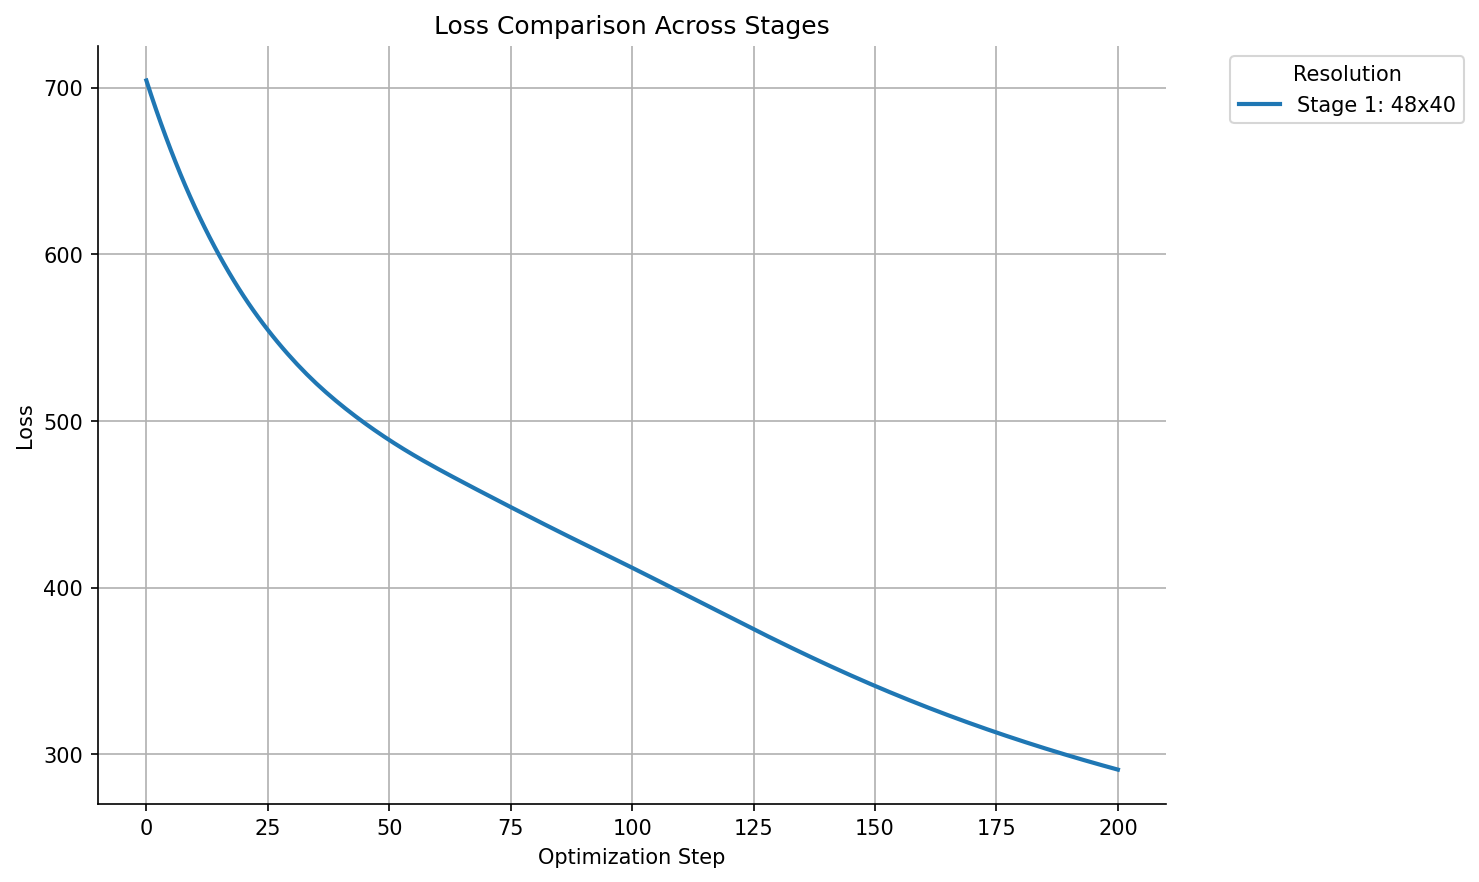
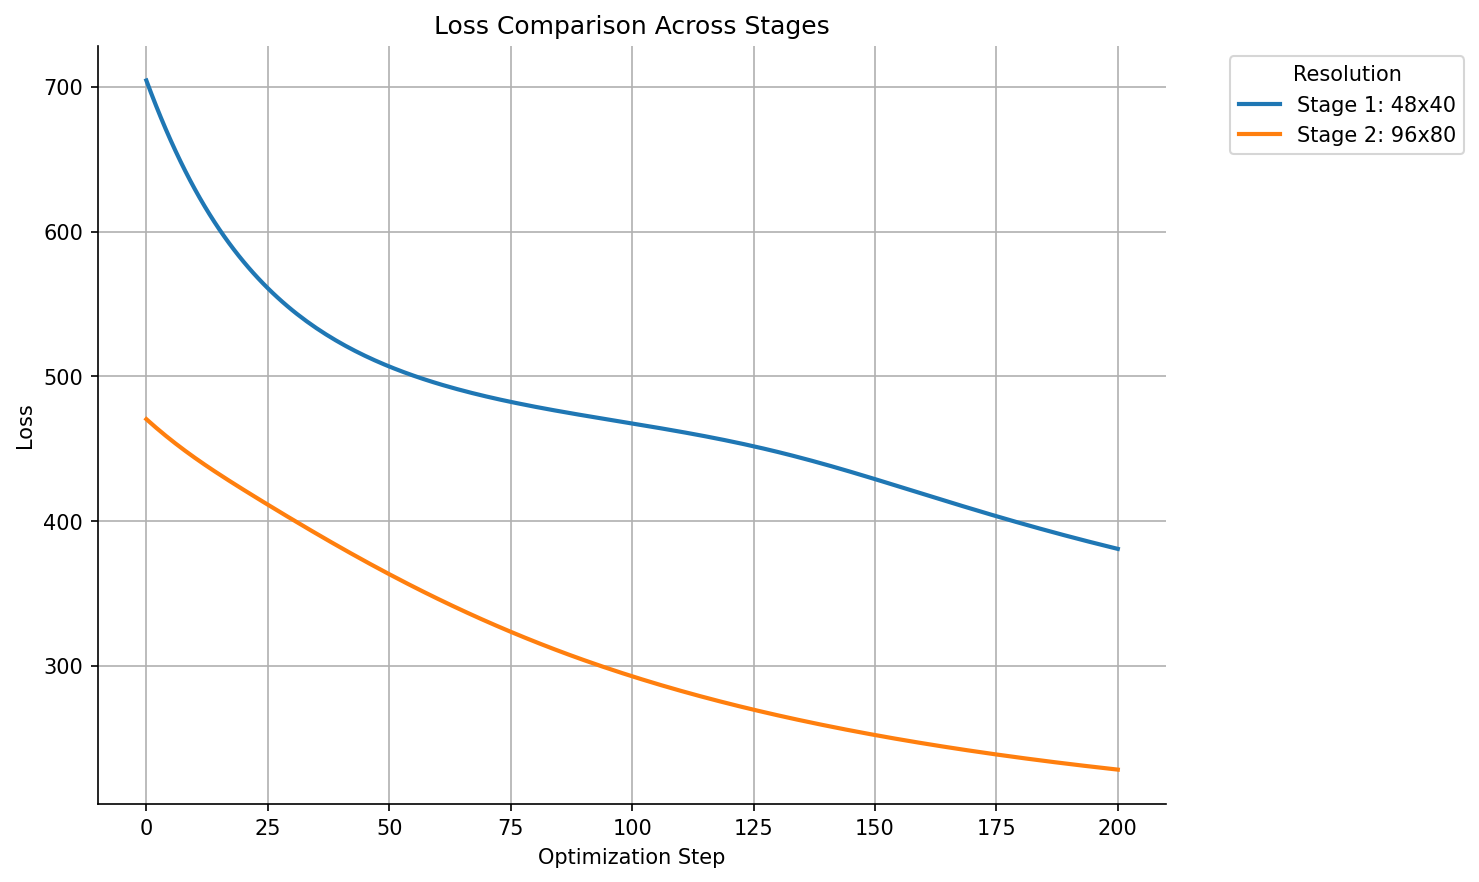
adaptive pixel model works (slowly)

diff --git a/neural_structural_optimization/models.py b/neural_structural_optimization/models.py
@@ -56,26 +56,13 @@ class Model(tf.keras.Model):
     self.env = topo_api.Environment(args)
     self.args = args
 
-  # def loss(self, logits):
-  #   # for our neural network, we use float32, but we use float64 for the physics
-  #   # to avoid any chance of overflow.
-  #   # add 0.0 to work-around bug in grad of tf.cast on NumPy arrays
-  #   logits = 0.0 + tf.cast(logits, tf.float64)
-  #   f = lambda x: batched_topo_loss(x, [self.env])
-  #   losses = convert_autograd_to_tensorflow(f)(logits)
-  #   return tf.reduce_mean(losses)
-
   def loss(self, logits):
-    logits = tf.cast(logits, tf.float64)
-    flat_logits = tf.reshape(logits, [logits.shape[0], -1])  # flatten for autograd
-
-    # Build wrapper on-the-fly to ensure `self.env` is current
-    def autograd_loss(x_np):
-        return batched_topo_loss(x_np, [self.env])
-
-    wrapped_loss = convert_autograd_to_tensorflow(autograd_loss)
-    losses = wrapped_loss(flat_logits)
-
+    # for our neural network, we use float32, but we use float64 for the physics
+    # to avoid any chance of overflow.
+    # add 0.0 to work-around bug in grad of tf.cast on NumPy arrays
+    logits = 0.0 + tf.cast(logits, tf.float64)
+    f = lambda x: batched_topo_loss(x, [self.env])
+    losses = convert_autograd_to_tensorflow(f)(logits)
     return tf.reduce_mean(losses)
 
   def update_problem_params(self, new_params):
@@ -150,14 +137,17 @@ class PixelModelAdaptive(Model):
 
     self.update_problem_params(new_problem_params)
 
-    self.shape = (1, self.env.args['nely'], self.env.args['nelx'])
-    
+    self.shape = (1, new_problem_params.height, new_problem_params.width)
+  
+    z = self.z
+    z = tf.expand_dims(z, axis=-1) # add extra channel dimension for tfi
+
     # resize z
-    z_resized = tfi.resize(self.z, 
-      size=[int(self.shape[1] * self.resize_scale),
-            int(self.shape[2] * self.resize_scale)],
+    z_resized = tfi.resize(z, 
+      size=[int(self.shape[1]), int(self.shape[2])],
       method="bilinear", antialias=True)
 
+    z_resized = tf.squeeze(z_resized, axis=-1) # get rid of extra channel dimension
     z_resized = tf.clip_by_value(z_resized, 0.0, 1.0)
     z_resized = tf.expand_dims(z_resized[0], axis=0)  # ensure shape (1, H, W)
     

diff --git a/neural_structural_optimization/models_utils.py b/neural_structural_optimization/models_utils.py
@@ -19,27 +19,11 @@ def batched_topo_loss(params, envs):
 # Autodiff integration utilities
 # =============================================================================
 
-# def convert_autograd_to_tensorflow(func):
-#   @tf.custom_gradient
-#   def wrapper(x):
-#     vjp, ans = autograd.core.make_vjp(func, x.numpy())
-#     return ans, vjp
-#   return wrapper
-
 def convert_autograd_to_tensorflow(func):
   @tf.custom_gradient
-  def wrapper(x_tf):
-    x_np = x_tf.numpy()  # Eager mode only — should not be inside tf.function
-    y_np, grad_np = autograd.value_and_grad(func)(x_np)
-
-    y_tf = tf.convert_to_tensor(y_np, dtype=x_tf.dtype)
-    grad_tf = tf.convert_to_tensor(grad_np, dtype=x_tf.dtype)
-
-    def grad(dy):
-      # dy is upstream scalar gradient (usually 1.0)
-      return dy * grad_tf
-
-    return y_tf, grad
+  def wrapper(x):
+    vjp, ans = autograd.core.make_vjp(func, x.numpy())
+    return ans, vjp
   return wrapper
 
 # =============================================================================
@@ -50,7 +34,6 @@ def set_random_seed(seed):
   if seed is not None:
     np.random.seed(seed)
     tf.random.set_seed(seed)
-
 
 def global_normalization(inputs, epsilon=1e-6):
   mean, variance = tf.nn.moments(inputs, axes=list(range(len(inputs.shape))))
@@ -65,7 +48,6 @@ def global_normalization(inputs, epsilon=1e-6):
 
 def UpSampling2D(factor):
   return layers.UpSampling2D((factor, factor), interpolation='bilinear')
-
 
 def Conv2D(filters, kernel_size, **kwargs):
   return layers.Conv2D(filters, kernel_size, padding='same', **kwargs)

diff --git a/script/run.py b/script/run.py
@@ -59,16 +59,16 @@ def main():
         print(f"Dimensions: {params.width}x{params.height}")
         print(f"Max iterations: {max_iterations}")
 
-        # model = models.PixelModelAdaptive(problem_params=params, resize_num=1)
-        # ds_history = train.train_adam_progressive(model, max_iterations)
+        model = models.PixelModelAdaptive(problem_params=params, resize_num=1)
+        ds_history = train.train_adam_progressive(model, max_iterations)
 
-        model = models.PixelModel(problem_params=params)
-        ds_history = train.train_adam(model, max_iterations)
+        # model = models.PixelModel(problem_params=params)
+        # ds_history = train.train_adam(model, max_iterations)
 
         # model = models.CNNModel(problem_params=params, **dynamic_kwargs)
         # ds_history = train.train_lbfgs(model, max_iterations)
 
-        if not isinstance(ds_history, list):
+        if not isinstance(ds_history, (list, np.ndarray)):
             ds_history = [ds_history]
             
         print(f"\nOptimization completed!")
@@ -94,7 +94,8 @@ def main():
         # Create final designs comparison plot
         print("\nCreating final designs plot...")
         fig, axes = plt.subplots(1, len(ds_history), figsize=(4*len(ds_history), 6))
-        if not isinstance(axes, list):
+        
+        if not isinstance(axes, (list, np.ndarray)):
             axes = [axes]
         fig.suptitle(f'Final Designs: {params.problem_name}', fontsize=16)
 
